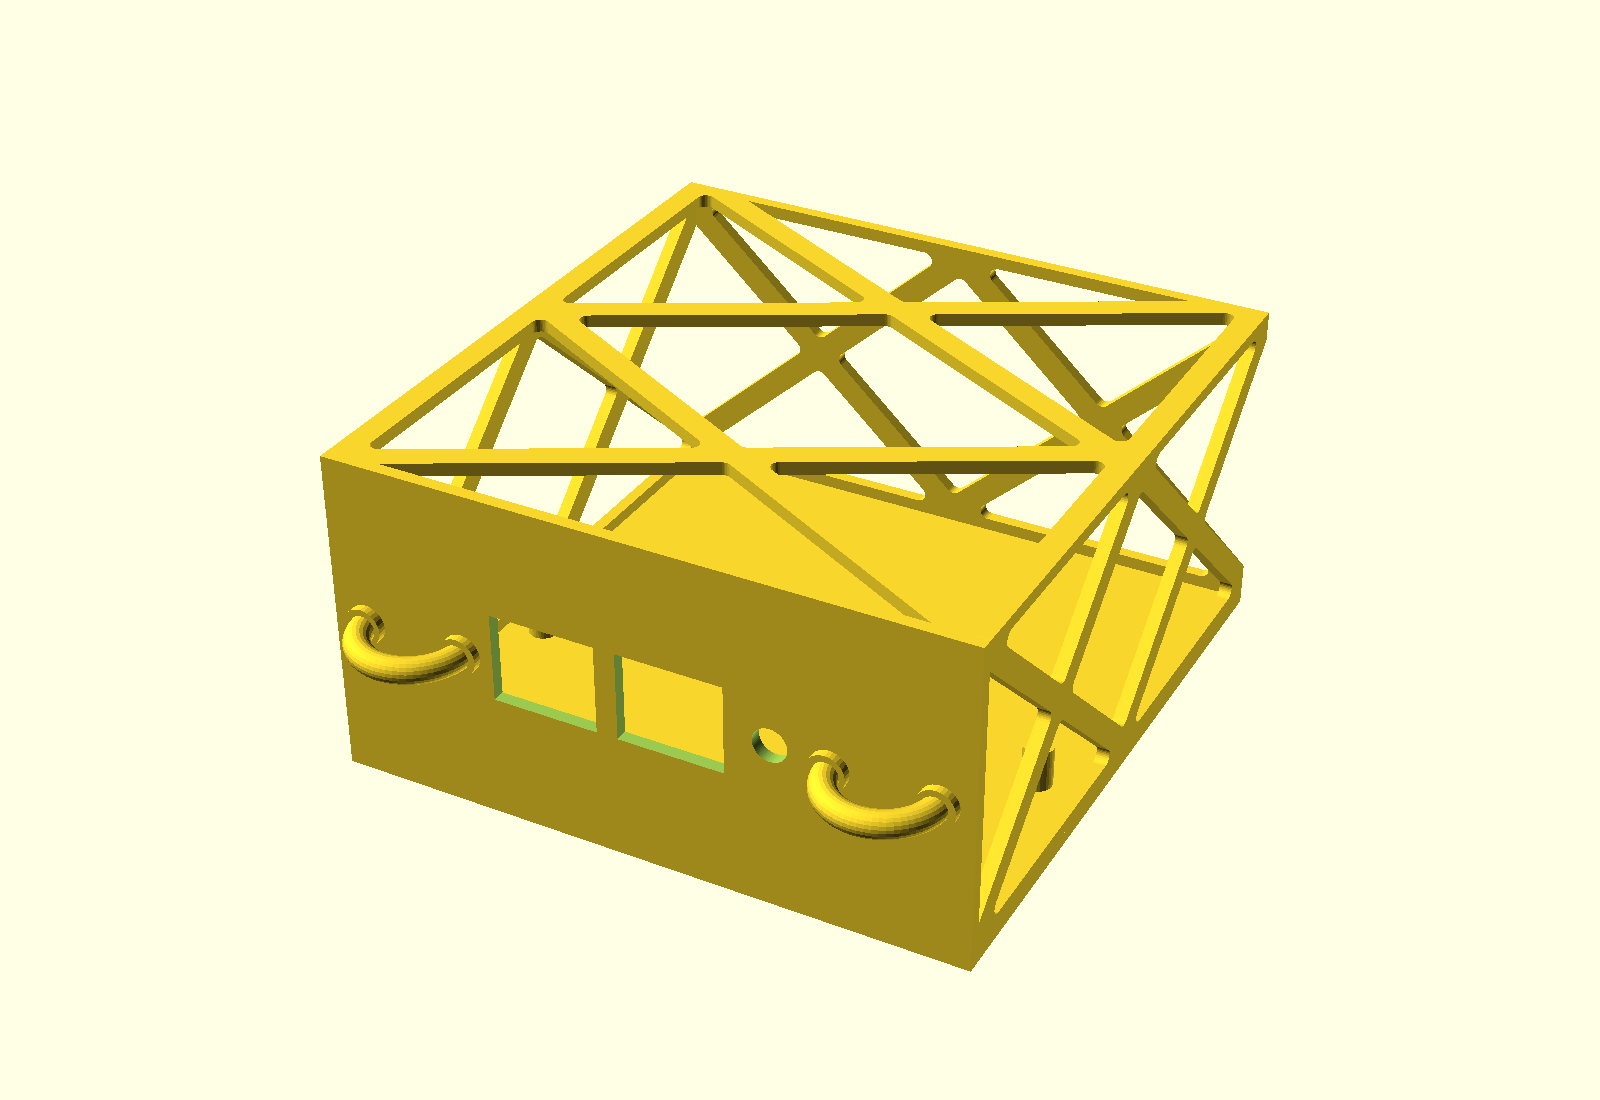
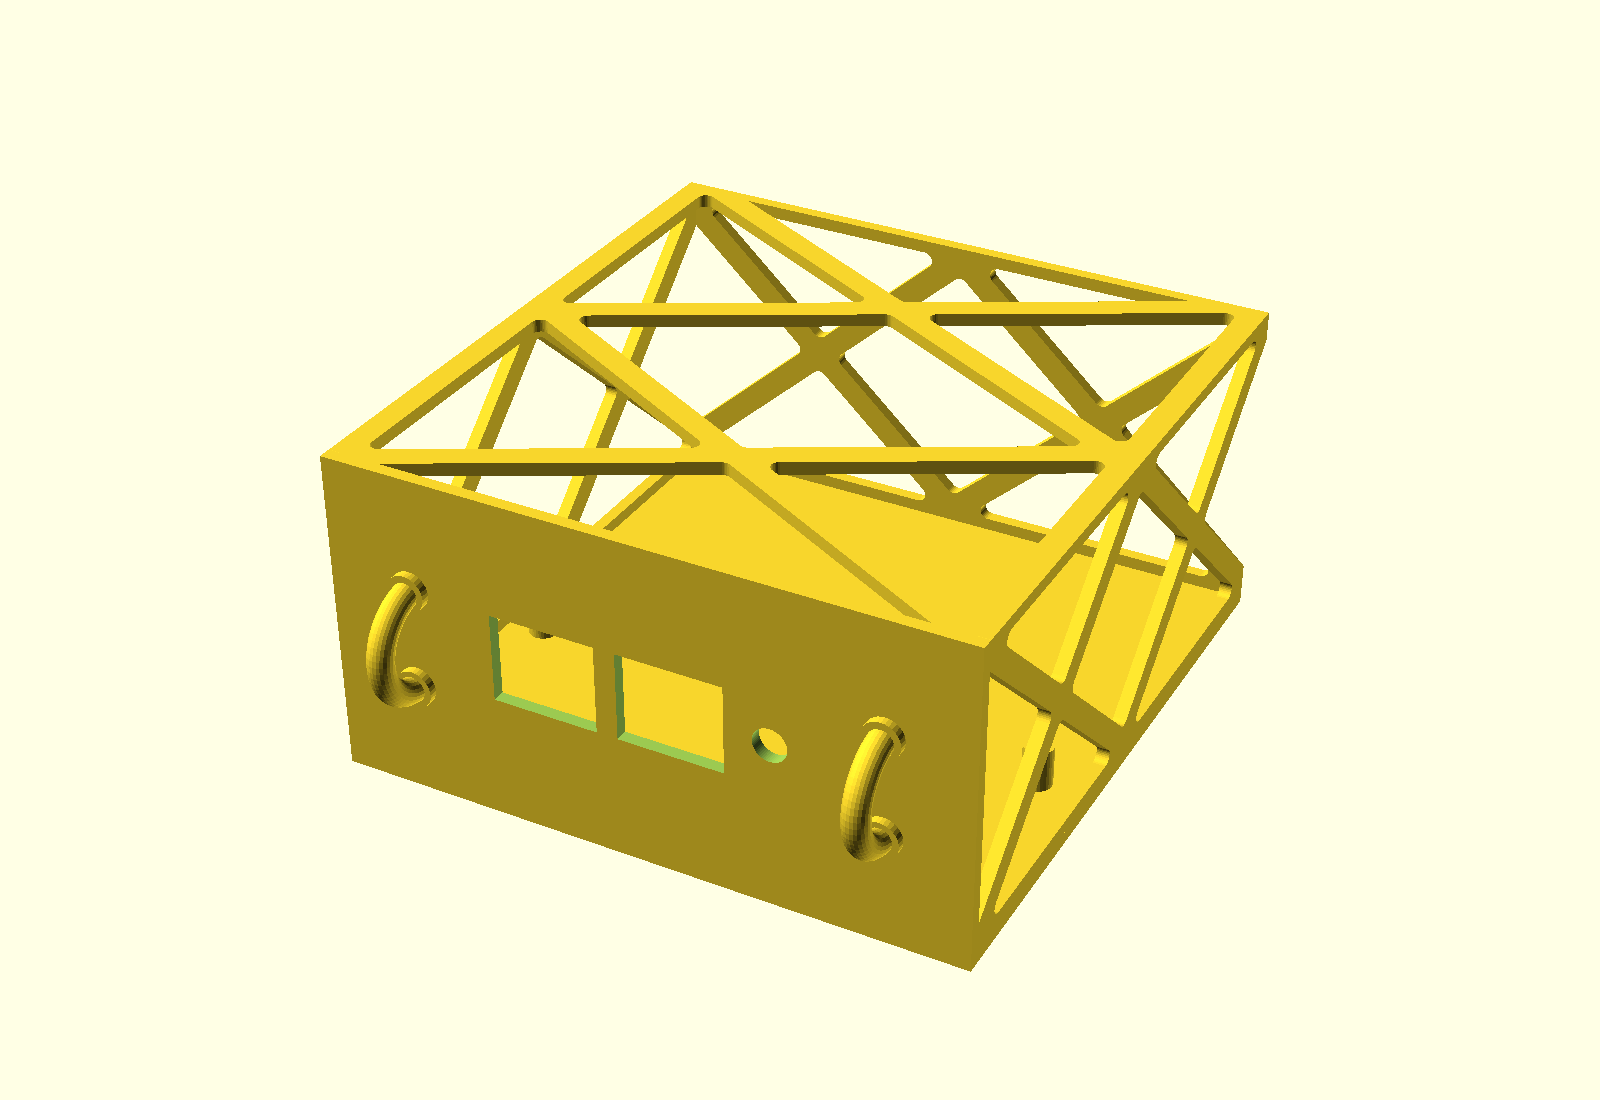
Stand the loop handles upright
- Rotate the loop in the plane of the face, so its long axis runs up the tray
  instead of across it: the bail now reads as a riser you pull straight out,
  rather than a drawer pull lying along the face
- The upright loop is 9 mm across and 33 mm up, where it was 33 across and 9 up.
  It takes a tall band instead of a wide one, which frees the space either side
  of it: that is where the front cut-outs tend to sit, and the fitted example now
  clears them with room to spare
- Everything else is untouched: the default tray still comes out at 144,996.2
  mm^3, the handle still stands the same 13 mm off the face, and a tray with
  handles on both sides still gives an empty intersection with its module
- Noted by the constant that 33 mm just fits a 1U face (33.2 mm), leaving 0.07 mm
  top and bottom, so lower HANDLE_LOOP_OPENING if you want more room
- Re-rendered the two examples that show loop handles: tray-handle-loop and
  tray-fitted

Changed region(s): [[0.5, 0.6491, 0.5938, 0.8036], [0.2188, 0.5255, 0.3125, 0.6491]]

diff --git a/README.md b/README.md
@@ -57,7 +57,7 @@ lower edge, so the outer holes sit near the panel edges.
 | `top_removable` | Build the top in, or print it as its own part | false |
 | `part` | Which piece to build: `body` or `top` | body |
 | `handle_sides` | `none`, `rail`, `centre` or `both` | none |
-| `handle_type` | `loop` (half donut pull) or `knob` | loop |
+| `handle_type` | `loop` (upright half donut pull) or `knob` | loop |
 
 Handles are named from the module's mounting edge: `rail` is the edge that
 screws to the rack, `centre` faces the middle of the rack. Left and right flip
@@ -82,8 +82,10 @@ front_cutouts = [
 pcb_mounts = [[12, 12], [138, 12], [12, 60, 10], [138, 60, 10]];
 ```
 
-Keep cut-outs clear of the handles: each handle takes roughly `HANDLE_INSET`
-+/- 15 mm from its edge, and there is no guard against the two colliding.
+Keep cut-outs clear of the handles: a handle sits `HANDLE_INSET` in from its
+edge and half way up the face, and blocks a band around that point — roughly
++/- 5 mm across and +/- 17 mm up and down — and there is no guard against the two
+colliding.
 
 `tray()` also takes those two lists and the two handle settings as arguments, `cutouts`, `mounts`,
 `handle_sides` and `handle_type`, so a build script can hand over its own without touching this
@@ -98,8 +100,9 @@ That is how a downstream project keeps its build data in its own repo: define th
 them over, and the library stays free of any one build's numbers.
 
 Size the keep-out to the handle you picked: a knob is ~16 mm across, a loop spans
-`HANDLE_LOOP_OPENING` plus its feet (~33 mm) and stands further off the face, so the band a
-cut-out has to avoid is wider with a loop than the `+/- 15 mm` above suggests.
+`HANDLE_LOOP_OPENING` plus its feet (~33 mm) up and down the face and stands further off
+it, so the band a cut-out has to avoid is taller with a loop than the `+/- 17 mm` above
+suggests.
 
 ## Examples
 
@@ -138,7 +141,7 @@ sizes together — `examples/module-pair-1u-back.png` shows the same pair at 1U,
 | ![Skeleton tray](examples/tray-skeleton.png) | ![Tray with mixed wall styles](examples/tray-styles.png) |
 | The default: skeleton sides, back and top | `side_style = "solid"` with `back_style = "slits"`: each wall is chosen separately |
 | ![Loop handles](examples/tray-handle-loop.png) | ![Knob handles](examples/tray-handle-knob.png) |
-| `handle_sides = "both"`, `handle_type = "loop"`: half donut pulls | The same sides with `handle_type = "knob"` |
+| `handle_sides = "both"`, `handle_type = "loop"`: upright half donut pulls | The same sides with `handle_type = "knob"` |
 | ![Body for a removable top](examples/tray-no-top.png) | ![The removable top on its own](examples/tray-top.png) |
 | `top_removable = true`: the body, walls stopping short with screw bosses in the corners | `part = "top"`: the top prints as its own part, with countersunk screw holes |
 | ![1U tray](examples/tray-1u.png) | ![1U tray, every wall slitted](examples/tray-1u-vented.png) |
